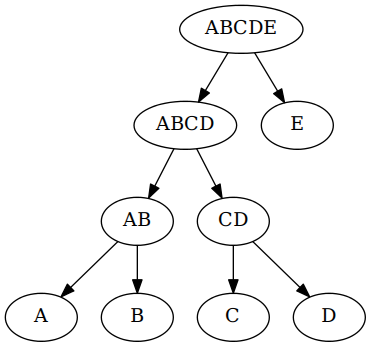
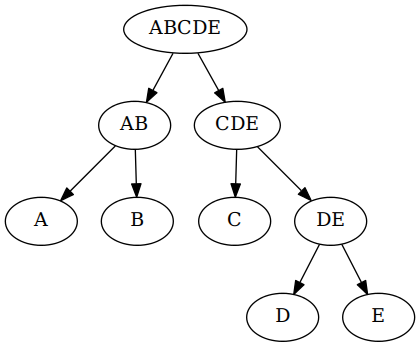
Geht jetzt. Benutzt jetzt das set nur zum deduplizieren und sonst eine liste

diff --git a/src/maketree.py b/src/maketree.py
@@ -2,8 +2,8 @@
 # encoding: utf-8
 
 
+# Drawing with graphviz
 import pydot as dot
-from itertools import permutations
 
 
 class Document:
@@ -28,23 +28,14 @@ class Distance:
         self.b = b
         self.dist = dist
 
-    def __gt__(self, node):
-        return self.dist > node.dist
-
     def __lt__(self, node):
         return self.dist < node.dist
 
-    def __ge__(self, node):
-        return self.dist >= node.dist
-
-    def __le__(self, node):
-        return self.dist <= node.dist
-
     def __eq__(self, node):
-        return self.dist == node.dist
+        return (self.a is node.a or self.a is node.b) and (self.b is node.a or self.b is node.b)
 
     def __hash__(self):
-        return id(a) + id(b) + self.dist
+        return id(a) + id(b)
 
     def __repr__(self):
         return "Dist({a}-{b}={d})".format(d=self.dist, a=self.a, b=self.b)
@@ -68,28 +59,32 @@ if __name__ == '__main__':
             Cluster([docs[4]], name="E")
     ]
 
-    s = set()
+    s = list()
+
     a, b, c, d, e = cluster
-    s.add(Distance(2, a, b))
-    s.add(Distance(4, a, c))
-    s.add(Distance(5, a, d))
-    s.add(Distance(7, a, e))
+    s.append(Distance(2, a, b))
+    s.append(Distance(4, a, c))
+    s.append(Distance(5, a, d))
+    s.append(Distance(7, a, e))
 
-    s.add(Distance(3, b, c))
-    s.add(Distance(6, b, d))
-    s.add(Distance(8, b, e))
+    s.append(Distance(3, b, c))
+    s.append(Distance(6, b, d))
+    s.append(Distance(8, b, e))
 
-    s.add(Distance(1, c, d))
-    s.add(Distance(2, c, e))
+    s.append(Distance(1, c, d))
+    s.append(Distance(2, c, e))
 
-    s.add(Distance(1, d, e))
+    s.append(Distance(1, d, e))
 
-    print(len(s))
+    # Initial sort
+    s.sort(reverse=True)
 
     # Iterate till n-1 new nodes have been created.
     for i in range(len(cluster) - 1):
         # Get the cluster with the shortest distance out
-        print(s, end='')
+        # On every iteration the length should be sum(0..n-1)
+        print('len(s) = ', len(s), s, end='')
+
         nearest = s.pop()
         left, right = nearest.a, nearest.b
 
@@ -99,24 +94,20 @@ if __name__ == '__main__':
                 name=''.join((left.name, right.name))
         )
 
-        print(' ->', parent.name)
+        print(' ->', left.name + "-" + right.name)
 
-        # Update set with the new parent node
         for dist in s:
-            # Set a to parent if it is in there
             if dist.a is left or dist.a is right:
                 dist.a = parent
-            # Otherwise search dist.b
             elif dist.b is left or dist.b is right:
                 dist.b = parent
-            # elsewhise leave it as it is.
 
         # Remember to draw the edge
         graph.add_edge(dot.Edge(parent.name, left.name))
         graph.add_edge(dot.Edge(parent.name, right.name))
 
-        # Not entirely sure if this is needed
-        s = set(list(s))
+        # Not exactly sure if this is needed
+        s = sorted(set(s), reverse=True)
 
     graph.write_png('cluster.png')
 
